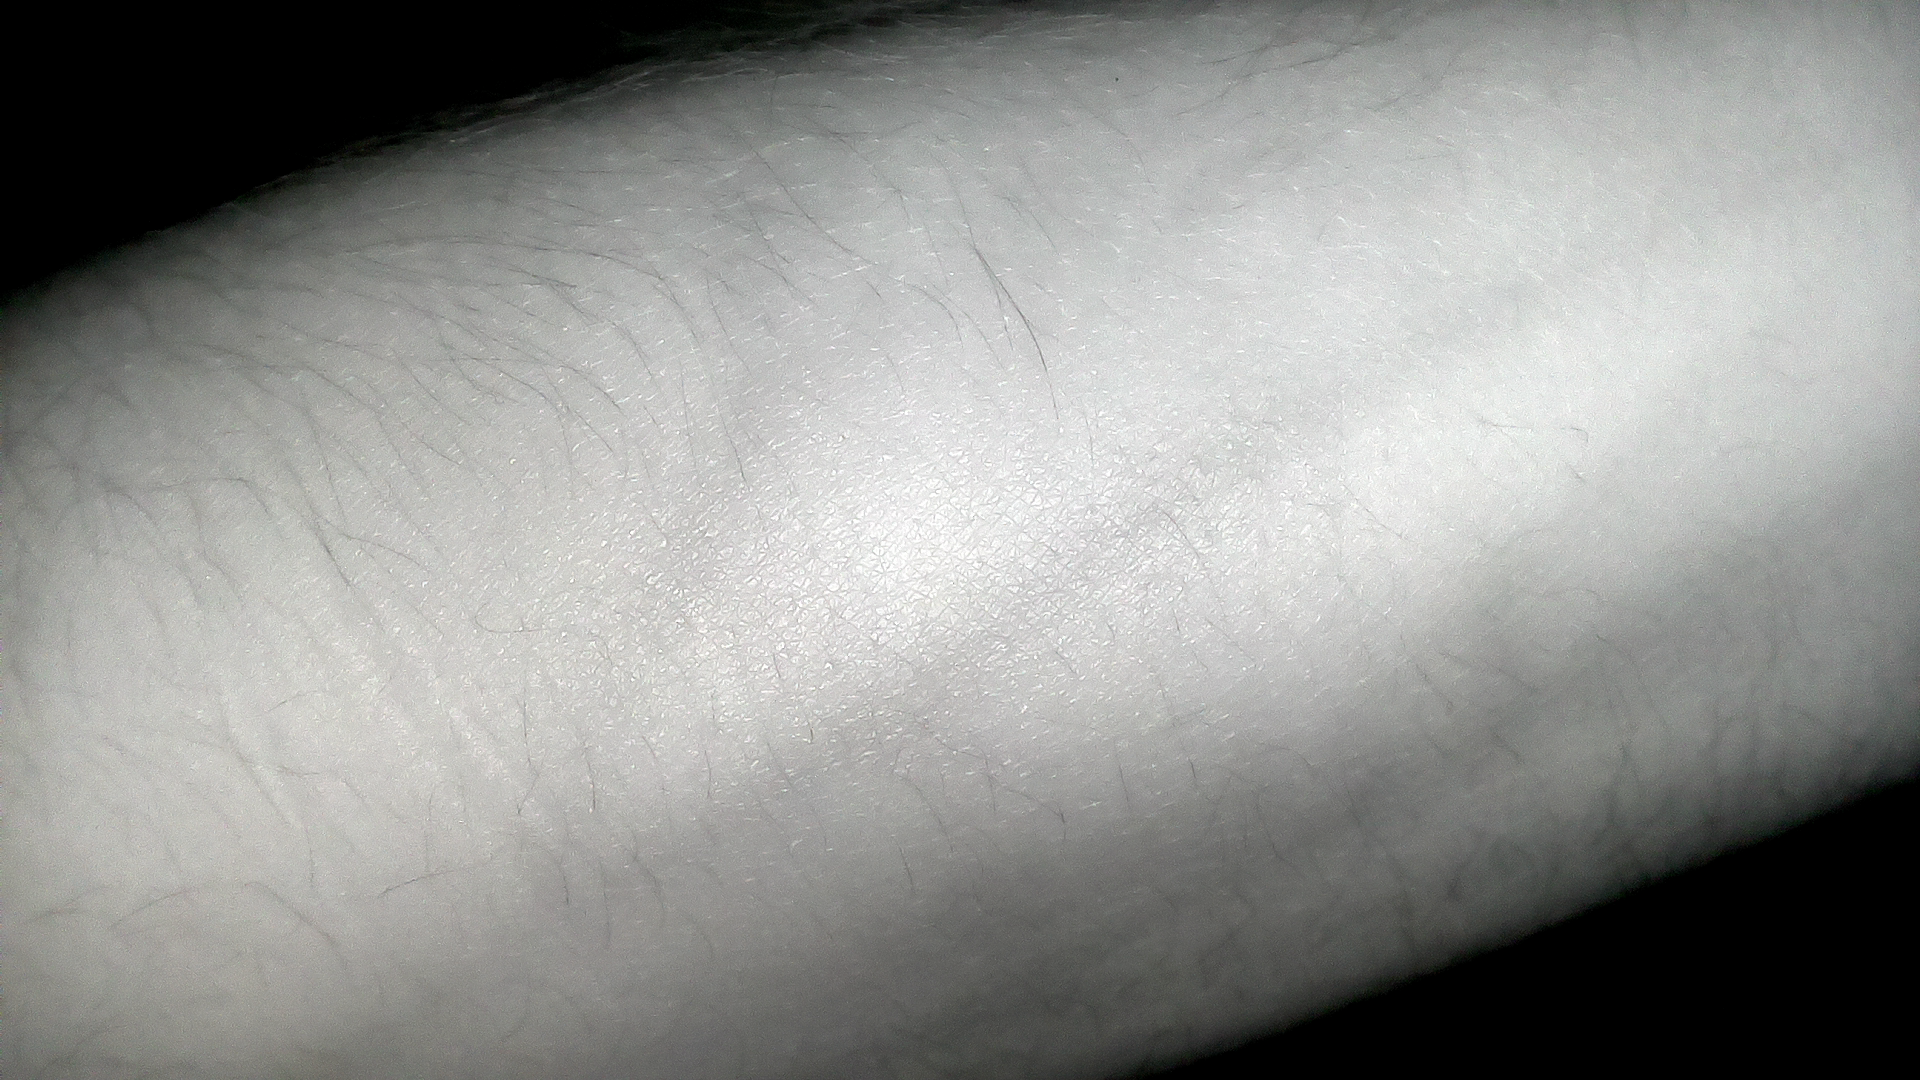
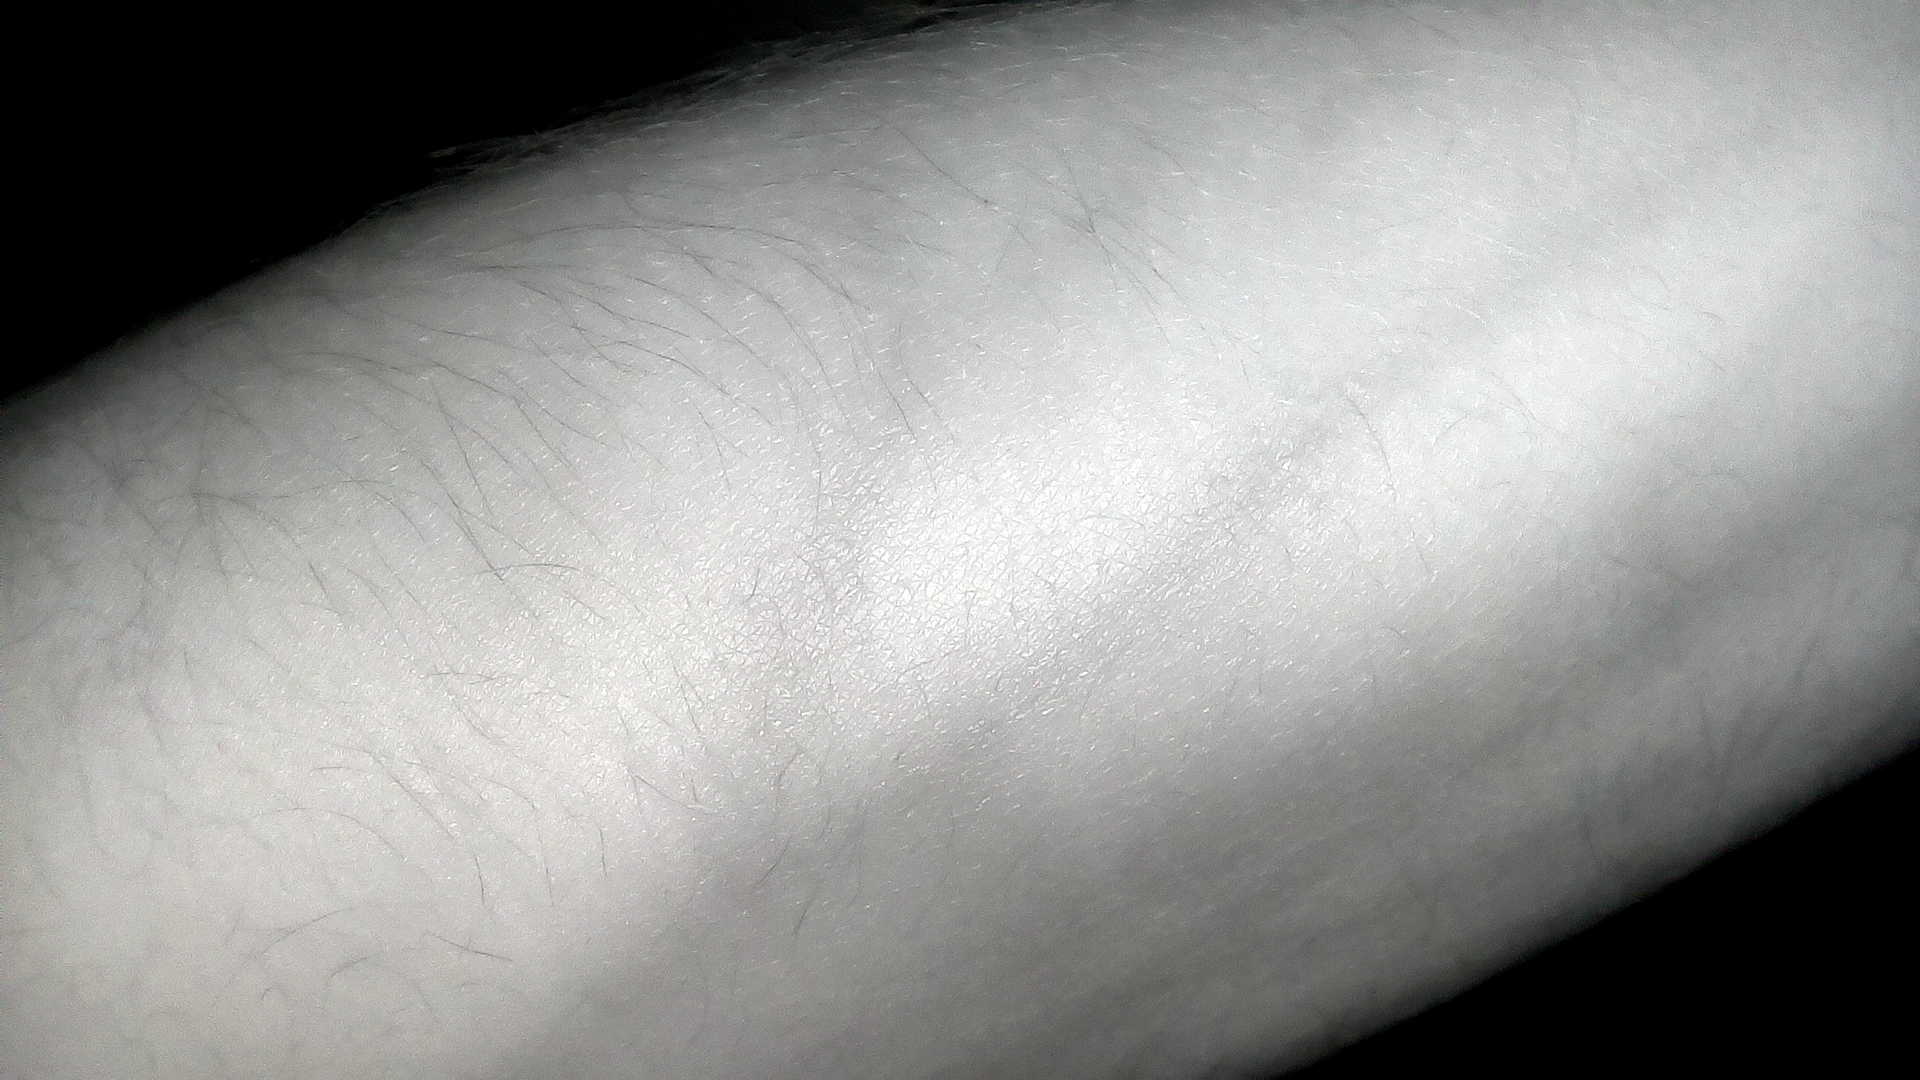
30.03 16:55

diff --git a/Ocvpydeneme.py b/Ocvpydeneme.py
@@ -20,7 +20,7 @@ cl=clahe.apply(l)
 limg=cv2.merge((cl,a,b))
 retsrc=cv2.cvtColor(limg,cv2.COLOR_LAB2BGR)
 sleep(0.042)
-cv2.imwrite('test.png',retsrc)
+cv2.imwrite('test.png',src)
 sleep(0.042)
 img=cv2.imread('test.png',0)
 sleep(0.042)
